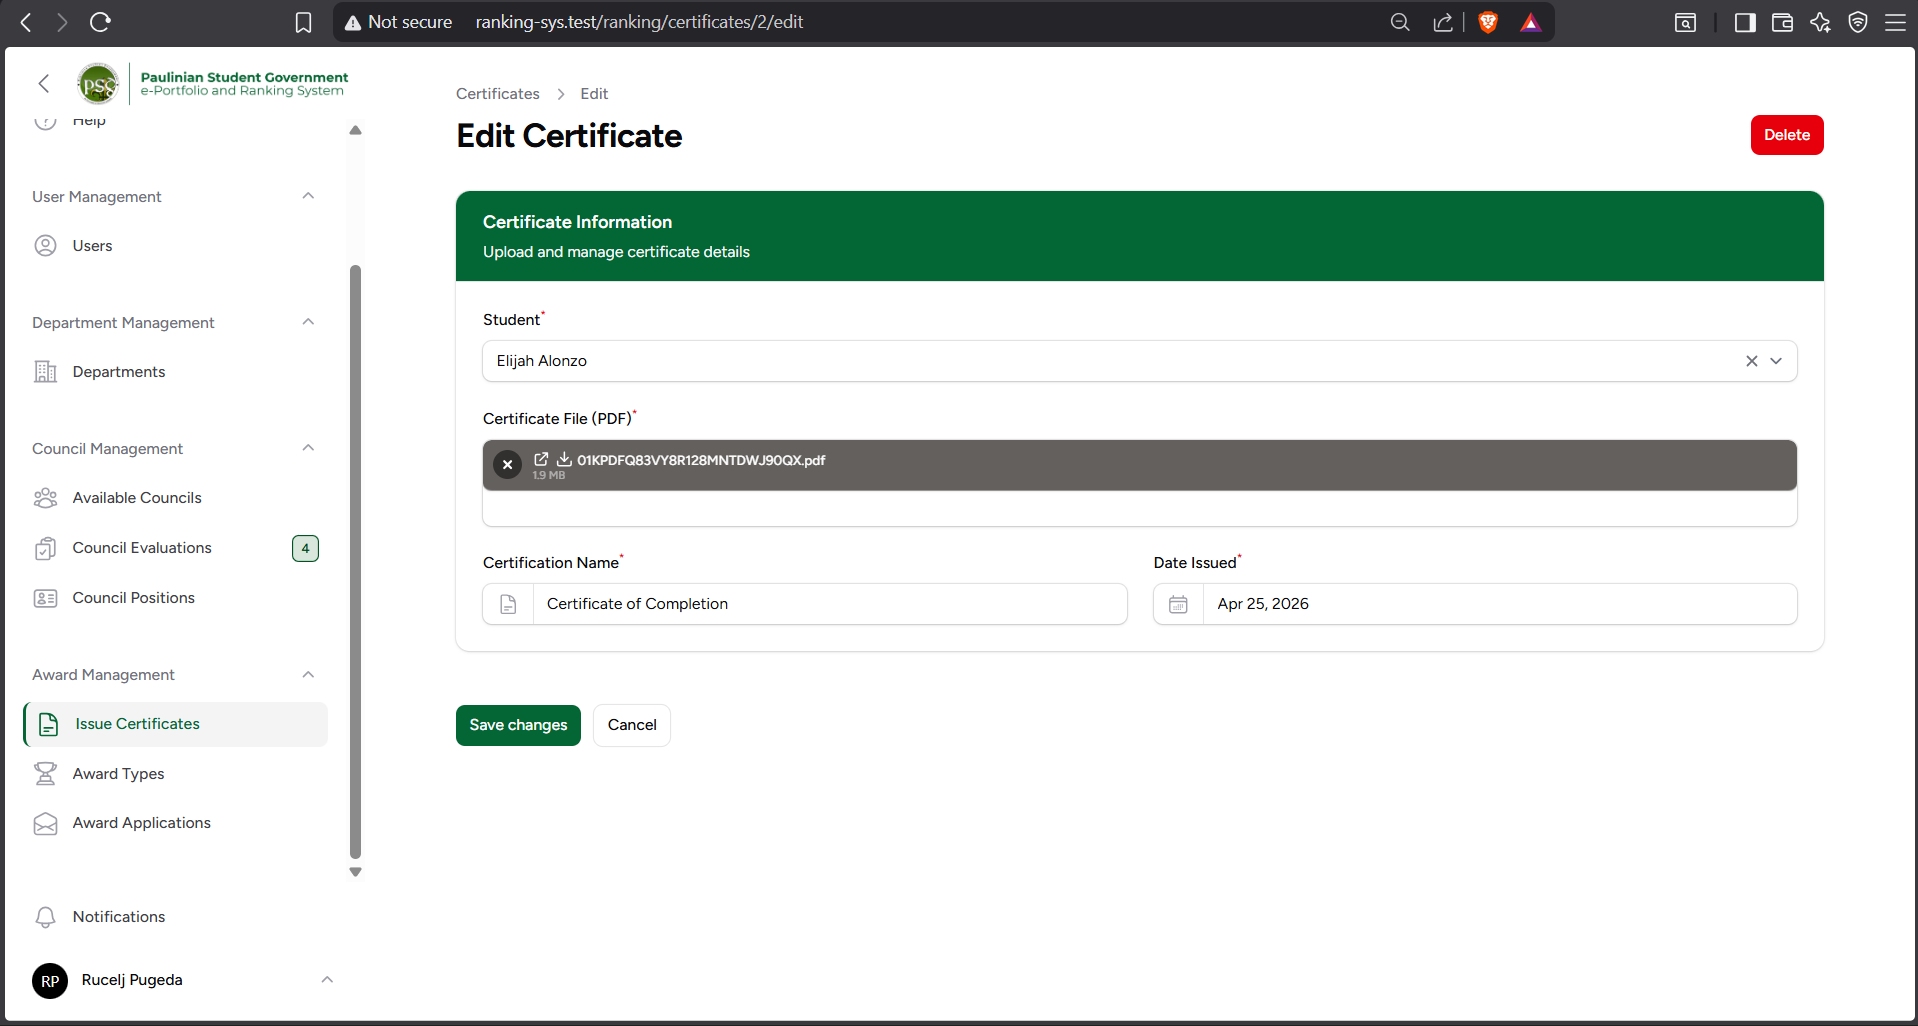
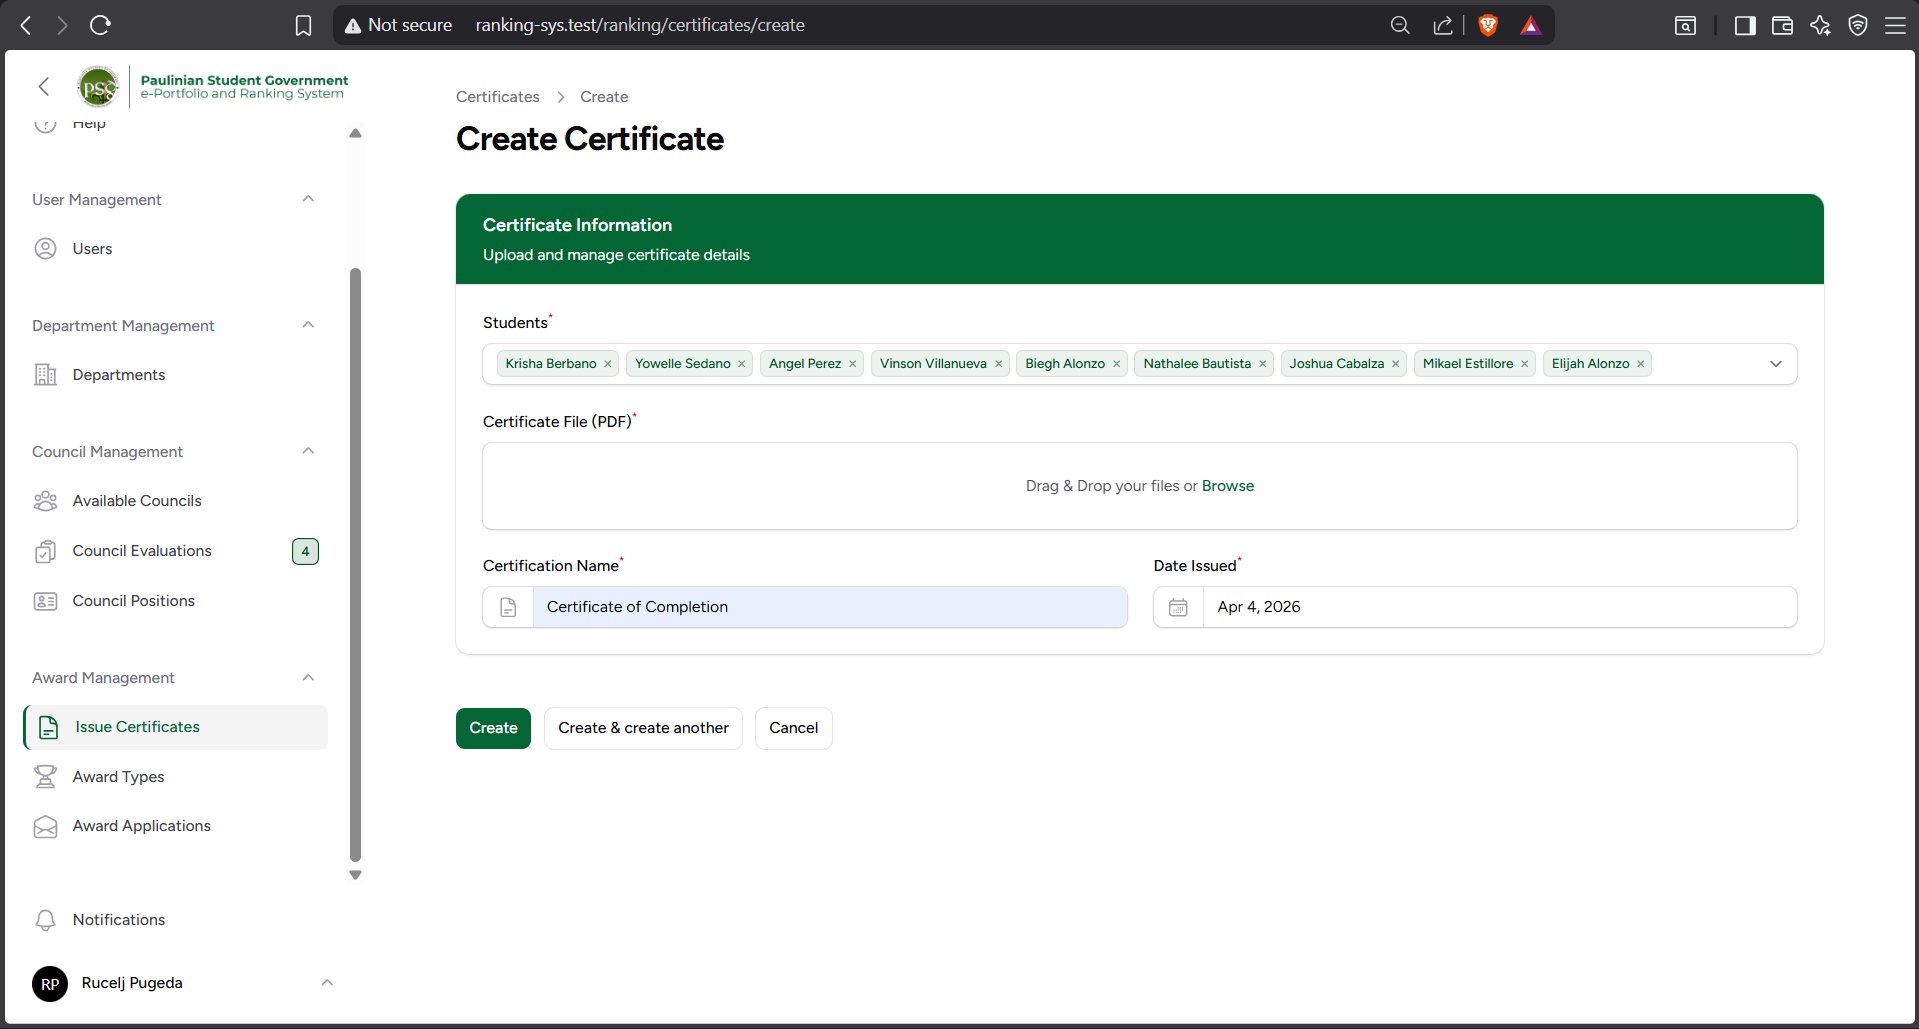
add | my eval view

diff --git a/app/Filament/Resources/MyEvaluations/RelationManagers/StudentsRelationManager.php b/app/Filament/Resources/MyEvaluations/RelationManagers/StudentsRelationManager.php
@@ -42,7 +42,7 @@ class StudentsRelationManager extends RelationManager
 
     protected function getTableColumns(): array
     {
-        return [
+        $columns = [
             ColumnGroup::make('Student Information', [
                 ImageColumn::make('user.pfp')
                     ->label('Picture')
@@ -80,19 +80,46 @@ class StudentsRelationManager extends RelationManager
                     ->label('Self')
                     ->state(fn () => true)
                     ->icon(fn (EvaluationPositionSlot $record) => $this->getStatusIcon($record, 'self'))
-                    ->color(fn (EvaluationPositionSlot $record) => $this->getStatusColor($record, 'self')),
+                    ->color(fn (EvaluationPositionSlot $record) => $this->getStatusColor($record, 'self'))
+                    ->tooltip('Click to view self evaluation form')
+                    ->url(fn (EvaluationPositionSlot $record) => $this->canViewCriteriaForms()
+                        && (bool) $record->user_id
+                        && $this->getEvaluationStatus($record->user_id, 'self') !== 'pending'
+                        ? $this->ownerRecord->getEvaluationUrl((int) $record->user_id, 'self')
+                        : null),
                 IconColumn::make('peer_status')
                     ->label('Peer')
                     ->state(fn () => true)
                     ->icon(fn (EvaluationPositionSlot $record) => $this->getStatusIcon($record, 'peer'))
-                    ->color(fn (EvaluationPositionSlot $record) => $this->getStatusColor($record, 'peer')),
+                    ->color(fn (EvaluationPositionSlot $record) => $this->getStatusColor($record, 'peer'))
+                    ->tooltip('Click to view peer evaluation form')
+                    ->url(fn (EvaluationPositionSlot $record) => $this->canViewCriteriaForms()
+                        && (bool) $record->user_id
+                        && $this->getEvaluationStatus($record->user_id, 'peer') !== 'pending'
+                        ? $this->ownerRecord->getEvaluationUrl((int) $record->user_id, 'peer')
+                        : null),
                 IconColumn::make('adviser_status')
                     ->label('Adviser')
                     ->state(fn () => true)
                     ->icon(fn (EvaluationPositionSlot $record) => $this->getStatusIcon($record, 'adviser'))
-                    ->color(fn (EvaluationPositionSlot $record) => $this->getStatusColor($record, 'adviser')),
+                    ->color(fn (EvaluationPositionSlot $record) => $this->getStatusColor($record, 'adviser'))
+                    ->tooltip('Click to view adviser evaluation form')
+                    ->url(fn (EvaluationPositionSlot $record) => $this->canViewCriteriaForms()
+                        && (bool) $record->user_id
+                        && $this->getEvaluationStatus($record->user_id, 'adviser') !== 'pending'
+                        ? $this->ownerRecord->getEvaluationUrl((int) $record->user_id, 'adviser')
+                        : null),
             ]),
         ];
+
+        return $columns;
+    }
+
+    protected function canViewCriteriaForms(): bool
+    {
+        $user = auth()->user();
+
+        return $user !== null && $this->ownerRecord->council_adviser_id === $user->id;
     }
 
     protected function applyStageFilters(Builder $query): Builder

diff --git a/app/Filament/Resources/MyEvaluations/Pages/EvaluateStudentPage.php b/app/Filament/Resources/MyEvaluations/Pages/EvaluateStudentPage.php
@@ -47,6 +47,7 @@ class EvaluateStudentPage extends Page
         $this->evaluation = $evaluation;
         $this->evaluatee = $user;
         $this->evaluationType = $type;
+        $this->isAssignedAdviser = auth()->id() === $this->evaluation->council_adviser_id;
 
         $this->evaluation->loadMissing('council.awardType');
 
@@ -69,10 +70,9 @@ class EvaluateStudentPage extends Page
 
         $this->loadExistingEvaluation();
 
-        $this->isAssignedAdviser = auth()->id() === $this->evaluation->council_adviser_id;
-
         $this->isLocked = ($this->existingForm && $this->existingForm->status === 'submitted')
             || $this->evaluation->status === Evaluation::STATUS_COMPLETED
+            || ($this->isAssignedAdviser && $this->evaluationType !== 'adviser')
             || (auth()->user()->role === 'admin' && ! $this->isAssignedAdviser);
 
         if ($this->existingForm) {
@@ -92,6 +92,10 @@ class EvaluateStudentPage extends Page
         $user = auth()->user();
 
         if ($user->role === 'admin') {
+            return;
+        }
+
+        if ($this->isAssignedAdviser) {
             return;
         }
 
@@ -139,7 +143,7 @@ class EvaluateStudentPage extends Page
             'evaluator_type' => $this->evaluationType,
         ]);
 
-        if (auth()->user()->role !== 'admin') {
+        if (auth()->user()->role !== 'admin' && ! $this->isAssignedAdviser) {
             $query->where('evaluator_id', auth()->id());
         }
 
@@ -170,12 +174,36 @@ class EvaluateStudentPage extends Page
 
     protected function getHeaderActions(): array
     {
-        return [
+        $actions = [
             Action::make('back')
                 ->label('Back to Evaluation Details')
                 ->url(MyEvaluationResource::getUrl('view', ['record' => $this->evaluation]))
-                ->color('gray'),
+                ->color('primary'),
         ];
+
+        if ($this->isAssignedAdviser) {
+            $actions[] = Action::make('download_csv')
+                ->label('Download CSV')
+                ->color('info')
+                ->url(fn () => route('evaluation.export', [
+                    'evaluation' => $this->evaluation->id,
+                    'user' => $this->evaluatee->id,
+                    'type' => $this->evaluationType,
+                    'format' => 'csv',
+                ]));
+
+            $actions[] = Action::make('download_pdf')
+                ->label('Download PDF')
+                ->color('gray')
+                ->url(fn () => route('evaluation.export', [
+                    'evaluation' => $this->evaluation->id,
+                    'user' => $this->evaluatee->id,
+                    'type' => $this->evaluationType,
+                    'format' => 'pdf',
+                ]));
+        }
+
+        return $actions;
     }
 
     public static function getRouteName(?Panel $panel = null): string
